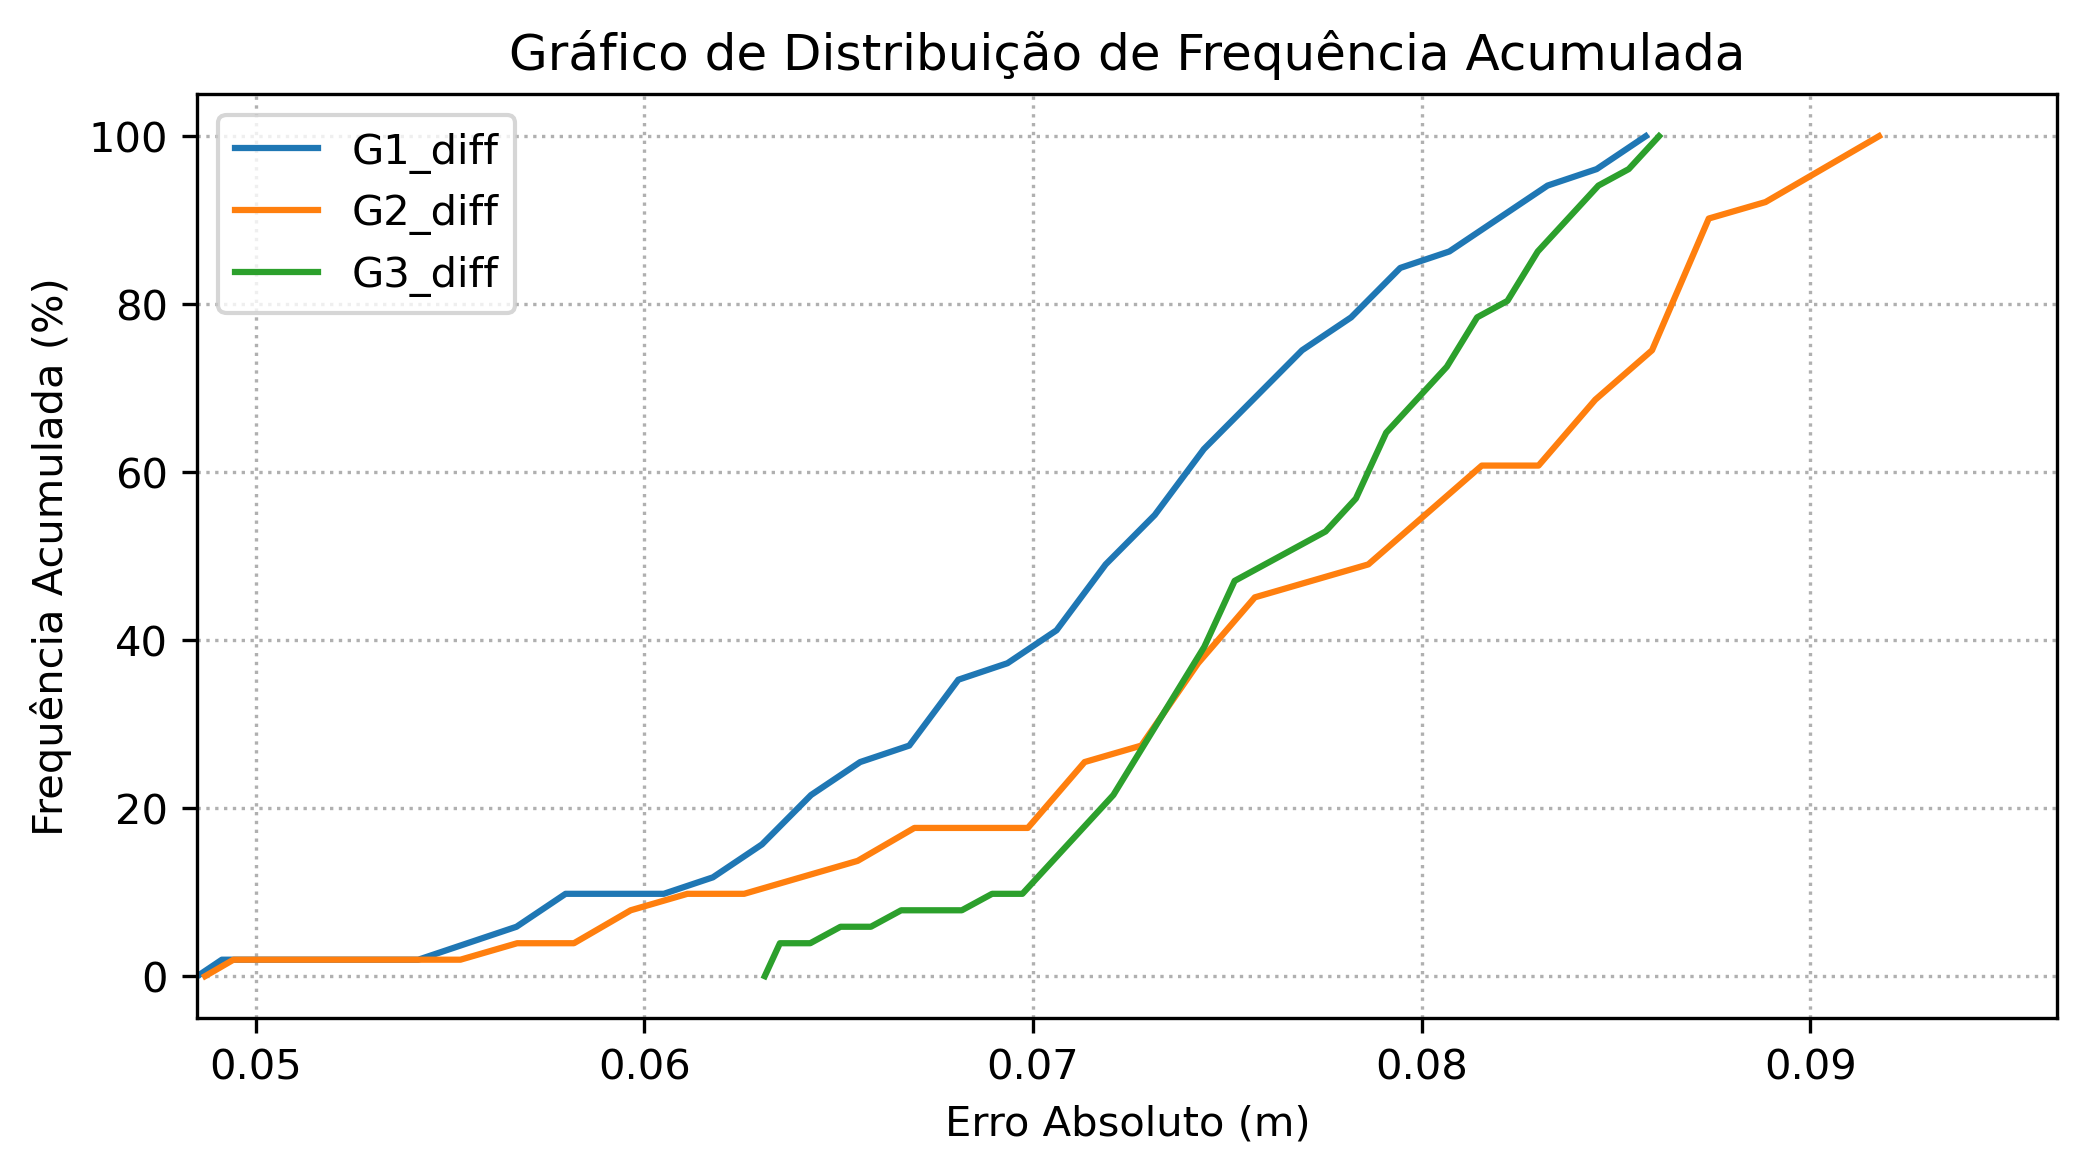
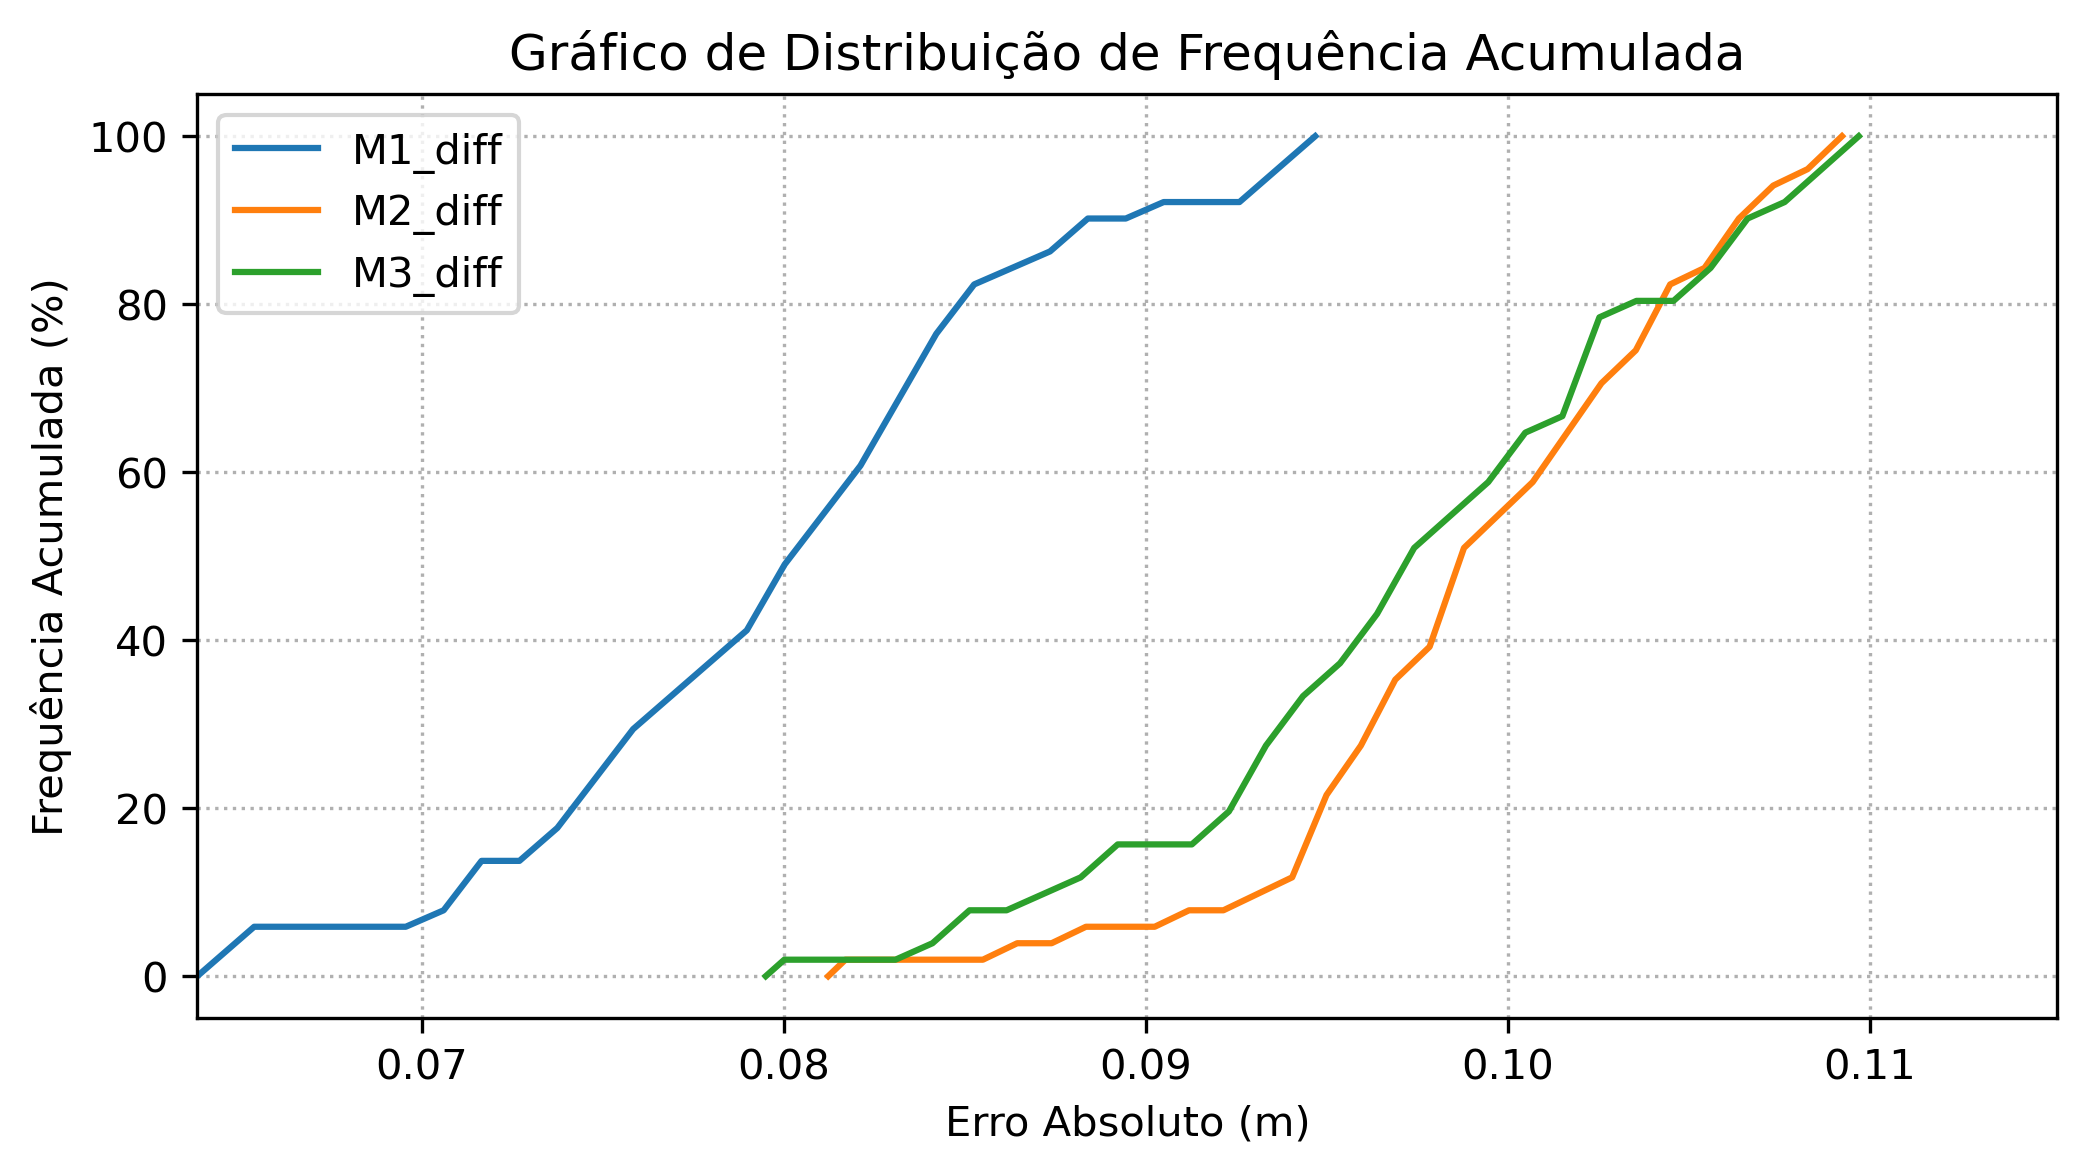
Análise M1xM2xM3
Adequação do código para analise M1xM2xM3 (Mochila1 x Mochila2 x Mochila3)

diff --git a/STATS_V2.py b/STATS_V2.py
@@ -36,14 +36,14 @@ for nome_sheet, df_alti in df_alti.items():
     df_dict = pd.read_excel(file_path, sheet_name=None)
 
     for nome_sheet, df_alti in df_dict.items():
-        df_alti.columns = ['PT', 'NIV', 'G1', 'G2', 'G3']
+        df_alti.columns = ['PT', 'NIV', 'M1', 'M2', 'M3']
 
     # Tratamentos (colunas a partir da terceira: V1, V2, V3, ...)
-    trats = ['G1','G2','G3']
+    trats = ['M1','M2','M3']
     const_column = {
-        "G1": 1.407,
-        "G2": 1.407,
-        "G3": 1.407,
+        "M1": 1.890,
+        "M2": 1.862,
+        "M3": 1.880,
     }     
 
     # DataFrame das diferenças
